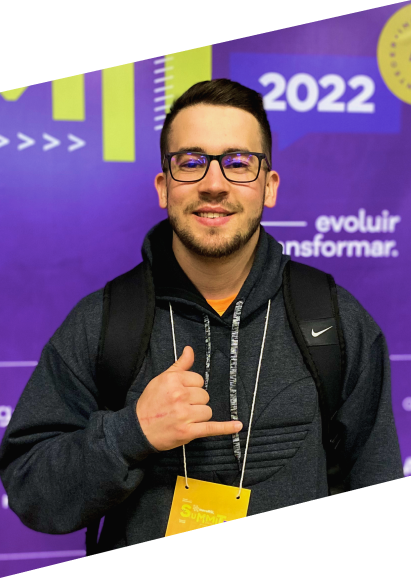
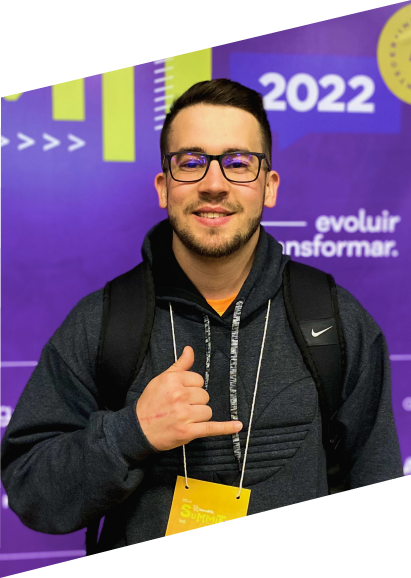
fix photo and style

Changed region(s): [[0.0, 0.0934, 0.438, 0.1869], [0.6131, 0.0311, 0.7883, 0.0623], [0.438, 0.0623, 0.6131, 0.0934]]

diff --git a/portfolio/src/pages/Home/index.jsx b/portfolio/src/pages/Home/index.jsx
@@ -1,6 +1,6 @@
 import { Container } from './style'
 import { Header } from '../../components/Header'
-import my_photo from '../../assets/my_photo.png'
+import photo from '../../assets/my_photo.png'
 import cursos from '../../assets/cursos.svg'
 import idiomas from '../../assets/idiomas.svg'
 import arrow from '../../assets/arrow.svg'
@@ -34,7 +34,22 @@ export function Home() {
             <h1 className="title-introduction">DEV FRONT END</h1>
           </div>
           <div className="photo-content">
-            <img src={my_photo} alt="Foto de Renan Silva" />
+            <svg
+              className="border-img"
+              width="417"
+              height="586"
+              viewBox="0 0 417 586"
+              fill="none"
+              xmlns="http://www.w3.org/2000/svg"
+            >
+              <path
+                d="M3 102.551L414 4V482.464L3 582V102.551Z"
+                stroke="#B629F8"
+                stroke-width="6"
+              />
+            </svg>
+
+            <img src={photo} alt="Foto de Renan Silva" />
           </div>
         </section>
 
@@ -141,12 +156,7 @@ export function Home() {
           <div className="content">
             <div className="formation">
               <p>
-                No momento sou <strong>graduando</strong> em
-                <strong>Ciências da Computação 🎓</strong>. Estudo
-                <strong> FullStack</strong> e especialização em React.js no
-                curso
-                <strong> Ignite</strong> da Rocketseat. Além disso me mantenho
-                sempre atualizado com outros cursos intensivos, bootcamps,
+                Me mantenho sempre atualizado com cursos intensivos, bootcamps,
                 hackatons e mais alguns eventos online.
               </p>
               <div className="course-content">

diff --git a/portfolio/src/pages/Home/style.js b/portfolio/src/pages/Home/style.js
@@ -70,14 +70,26 @@ export const Container = styled.div`
         .title-introduction {
           max-width: 455px;
           text-align: right;
+          line-height: 80px;
+          font-size: 100px;
         }
       }
 
-      .photo-content img {
-        object-fit: cover;
-        object-position: center;
-        height: 100%;
-        padding-left: 24px;
+      .photo-content {
+        position: relative;
+        .border-img {
+          position: absolute;
+          top: 20px;
+          left: 40px;
+        }
+        img {
+          object-fit: cover;
+          object-position: center;
+          height: 100%;
+          padding-left: 24px;
+
+          border-radius: skew(0deg, -15deg);
+        }
       }
     }
 
@@ -266,7 +278,7 @@ export const Container = styled.div`
             font-family: 'Fira Sans';
             font-weight: 400;
             font-size: 22px;
-            line-height: 29px;
+            line-height: 35px;
             color: ${({ theme }) => theme.COLORS.GRAY_200};
           }
         }
